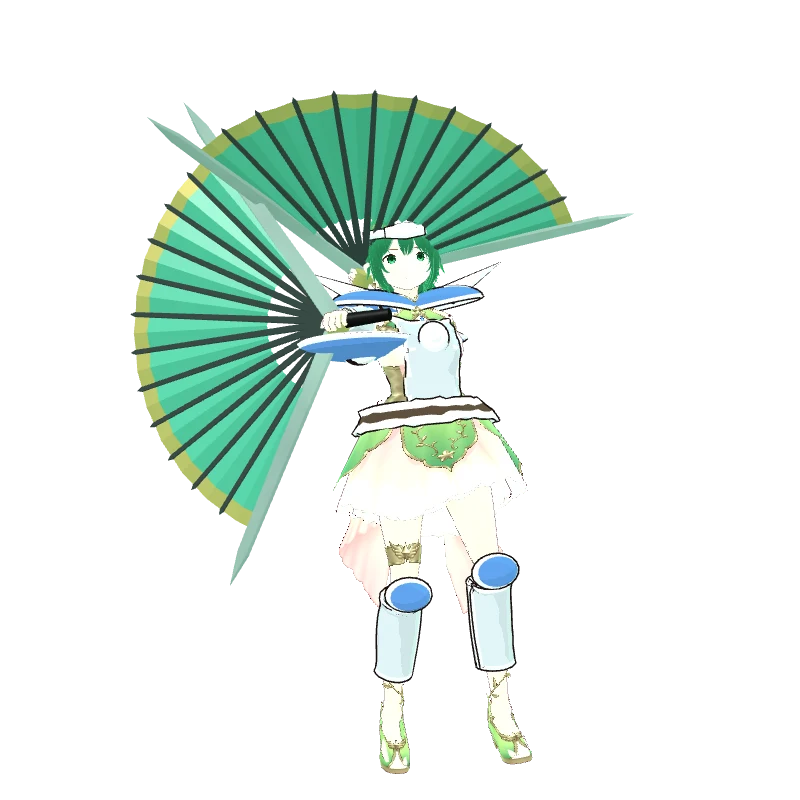
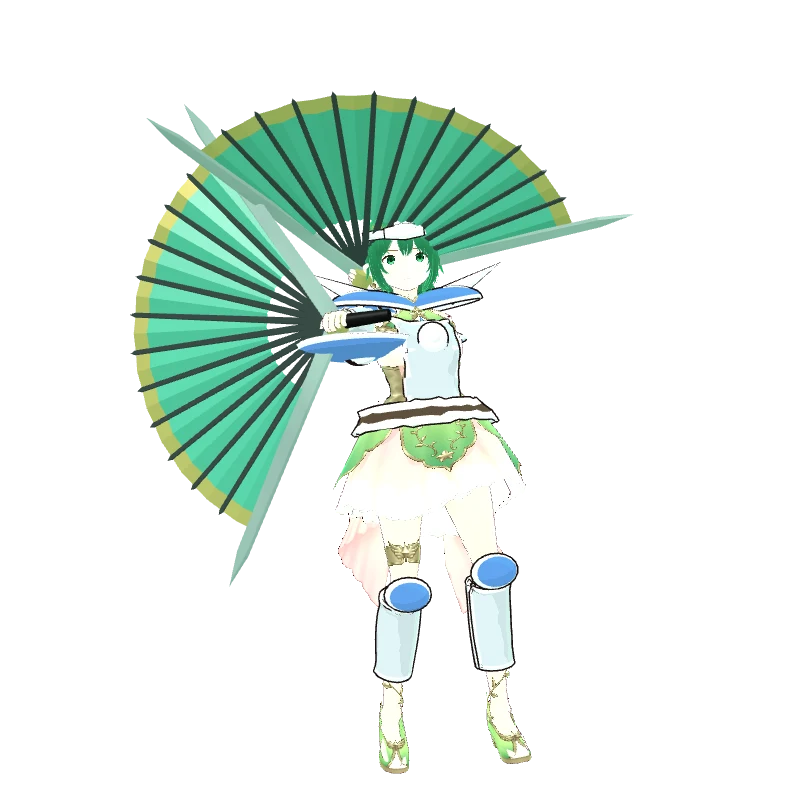
長柄の武器を柄巻きの所で握るようにする (v1.17.5)
- 長槍・大槌・大戦斧・大鎌: 右手で握る位置を柄の下端寄りから、赤い柄巻きの上端の少し下へ移す(weaponglb.js の hold)
- 左手は右手の下の柄巻きの範囲で握る(gripRange)。柄尻は手の下へ伸びる
- 大戦斧に柄巻きを足す
- 決めポーズを撮り直し

diff --git a/src/models.js b/src/models.js
@@ -116,7 +116,7 @@ function buildWeapon(type, tier, P) {
     add('c', at(cone(0.075, 0.26, P.c1, 8), 0, 1.36, 0, PI, 0, 0));
     add('g', side([[0, 1.62], [0.035, 1.72], [0, 1.52 + hl * 0.95], [-0.035, 1.72]], 0.034, glow));
     add('g', at(sph(0.034, glow, 6, 5), 0, 1.5, 0.045));
-    tip = [0, 1.58 + hl, 0]; base = [0, 1.46, 0]; two = true; grip = [0, -0.25, 0];   // 左手は右手より柄尻側
+    tip = [0, 1.58 + hl, 0]; base = [0, 1.46, 0]; two = true; grip = [0, -0.38, 0];   // 左手は右手より柄尻側
   } else if (type === 'twin') {
     // 双剣: 反りのある刃+鉤爪の鍔
     const len = 0.72 + tier * 0.06;
@@ -141,7 +141,7 @@ function buildWeapon(type, tier, P) {
     }
     add('m', at(cone(0.07, 0.26, gold, 6), 0, 1.38 + 0.31 * hs, 0));
     add('g', at(box(0.35 * hs, 0.12, 0.66 * hs, glow), 0, 1.38, 0));
-    tip = [0, 1.55, 0.15]; base = [0, 0.95, 0]; two = true; grip = [0, -0.25, 0];   // 左手は右手より柄尻側
+    tip = [0, 1.55, 0.15]; base = [0, 0.95, 0]; two = true; grip = [0, -0.38, 0];   // 左手は右手より柄尻側
   } else if (type === 'axe') {
     // 大戦斧: 両刃の三日月+棘
     const s = 1.08 + tier * 0.1, Y = (y) => 1.22 + (y - 1.22) * s;
@@ -154,7 +154,7 @@ function buildWeapon(type, tier, P) {
     add('m', at(cone(0.05, 0.3, steel, 6), 0, Y(1.62) + 0.1, 0));
     add('g', side([[0.5 * s, Y(0.96)], [0.6 * s, Y(1.22)], [0.5 * s, Y(1.5)], [0.54 * s, Y(1.22)]], 0.04, glow));
     add('g', at(sph(0.04, glow, 6, 5), 0, 1.22, 0.06));
-    tip = [0, 1.22, 0.6 * s]; base = [0, 0.95, 0]; two = true; grip = [0, -0.25, 0];   // 左手は右手より柄尻側
+    tip = [0, 1.22, 0.6 * s]; base = [0, 0.95, 0]; two = true; grip = [0, -0.38, 0];   // 左手は右手より柄尻側
   } else if (type === 'fan') {
     // 鉄扇: 刃付きの骨+光る縁
     const R = 0.62 + tier * 0.06, pts = [[0, 0]], inner = [[0, 0]];
@@ -185,7 +185,7 @@ function buildWeapon(type, tier, P) {
     add('m', at(cone(0.04, 0.26, gold, 6), 0, 1.68, 0));
     for (let i = 1; i <= 9; i++) { const a = (98 - i * 9.5) * PI / 180; add('g', at(sph(0.022, glow, 5, 4), 0, 0.585 + Math.sin(a) * 0.85 * bs, Math.cos(a) * 0.85 * bs)); }
     add('g', at(sph(0.04, glow, 6, 5), 0, 1.44, 0.055));
-    tip = [0, 0.55, 1.1 * bs]; base = [0, 1.48, 0]; two = true; grip = [0, -0.25, 0];   // 左手は右手より柄尻側
+    tip = [0, 0.55, 1.1 * bs]; base = [0, 1.48, 0]; two = true; grip = [0, -0.38, 0];   // 左手は右手より柄尻側
   }
   return { parts, tip, base, two, dual, grip };
 }
@@ -390,7 +390,7 @@ export function buildHero(look, wtype, tier = 0) {
   return {
     root: J.root, J, M, dang, scale: L.scale, wtype, two: W.two, dual: W.dual, armor: L.armor || '', spiky: !!L.vrmSpiky, pal: P, motion: L.motion || 1, armOut: L.armOut || 0,
     // 両手持ちで左手が握れる柄の範囲(右手からの距離, m)。この中で体にめり込まない位置を毎フレーム選ぶ
-    gripRange: { sword: [-0.19, -0.08], spear: [-0.75, 0.75], hammer: [-0.42, 0.6], axe: [-0.48, 0.6], scythe: [-0.72, 0.75] }[wtype] || null, run: RUNS[wtype] || RUNS.sword, oneRun: !!(RUNS[wtype] && RUNS[wtype].one),   // oneRun: 走る時は片手で持つ
+    gripRange: { sword: [-0.19, -0.08], spear: [-0.62, -0.2], hammer: [-0.54, -0.2], axe: [-0.54, -0.2], scythe: [-0.56, -0.2] }[wtype] || null,   /* 左手は右手の下の柄巻き */ run: RUNS[wtype] || RUNS.sword, oneRun: !!(RUNS[wtype] && RUNS[wtype].one),   // oneRun: 走る時は片手で持つ
     tip: new THREE.Vector3(...W.tip), base: new THREE.Vector3(...W.base), grip: new THREE.Vector3(...W.grip),
     rest: { ...RESTS[wtype], ...REST_COMMON }, idle: IDLES[wtype], height: 1.95 * L.scale, glow: P.glow,
     wMeshes,

diff --git a/src/weaponglb.js b/src/weaponglb.js
@@ -9,10 +9,11 @@ const DEF = {
   sword: { len: 1.36, grip: 0.16, trail: 0.3 },   // 右手は鍔のすぐ下、左手は柄頭側
   // native: 握る位置が原点の実寸モデル(拡大・中央寄せをしない)。tip/base は軌跡の刃先・根元 [刃の向き, 上] (m)
   twin:   { native: true, tip: [0.0, 0.84], base: [0.0, 0.18] },
-  spear:  { native: true, tip: [0.0, 2.24], base: [0.0, 1.5] },
-  hammer: { native: true, tip: [0.33, 1.36], base: [0.0, 0.95] },
-  axe:    { native: true, tip: [0.64, 1.22], base: [0.0, 0.95] },
-  scythe: { native: true, tip: [1.12, 0.5], base: [0.0, 1.5] },
+  // hold: 右手で握る高さ(柄巻きの上端の少し下)。左手はその下の柄巻きを握る(models.js の gripRange)
+  spear:  { native: true, hold: 0.5, tip: [0.0, 2.24], base: [0.0, 1.5] },
+  hammer: { native: true, hold: 0.5, tip: [0.33, 1.36], base: [0.0, 0.95] },
+  axe:    { native: true, hold: 0.5, tip: [0.64, 1.22], base: [0.0, 0.95] },
+  scythe: { native: true, hold: 0.5, tip: [1.12, 0.5], base: [0.0, 1.5] },
   fan:    { native: true, tip: [0.0, 0.62], base: [0.0, 0.12] },
 };
 const lib = {};
@@ -34,8 +35,9 @@ function prep(scene, d) {
   const box = new THREE.Box3().setFromObject(scene), h = Math.max(0.01, box.max.y - box.min.y), k = d.native ? 1 : d.len / h;
   scene.traverse((o) => { if (o.isMesh) { o.castShadow = true; o.userData.shared = true; } });
   if (d.trim) trimBottom(scene, box.min.y + h * d.trim);
-  const top = d.native ? box.max.y : (1 - d.grip) * d.len;
-  if (d.native) return { scene, d, top, off: new THREE.Vector3(), k: 1, mats: new Map() };
+  const hold = d.hold || 0;
+  const top = d.native ? box.max.y - hold : (1 - d.grip) * d.len;
+  if (d.native) return { scene, d, top, off: new THREE.Vector3(0, -hold, 0), k: 1, mats: new Map() };
   return {
     scene, d, top,
     // 外側で 縮尺→回転 をかけ、内側で中心と柄の位置をずらす
@@ -96,6 +98,7 @@ export function weaponGlb(type, tier, glow) {
   };
   const top = W.top * s;
   // 元の向き(X=刃の向き)は手の中では +Z になる
-  if (W.d.tip) return { make, tip: [0, W.d.tip[1] * s, W.d.tip[0] * s], base: [0, W.d.base[1] * s, W.d.base[0] * s] };
+  const h0 = W.d.hold || 0;
+  if (W.d.tip) return { make, tip: [0, (W.d.tip[1] - h0) * s, W.d.tip[0] * s], base: [0, (W.d.base[1] - h0) * s, W.d.base[0] * s] };
   return { make, tip: [0, top * 0.97, 0], base: [0, top * W.d.trail, 0] };
 }

diff --git a/sw.js b/sw.js
@@ -1,6 +1,6 @@
 // サービスワーカー: 全ファイルをキャッシュしてオフラインでも遊べるようにする
 // ※ ゲームを更新したら CACHE の番号を上げてください(古いキャッシュが破棄されます)
-const CACHE = 'seiga-v1.17.4';
+const CACHE = 'seiga-v1.17.5';
 const FILES = [
   './', 'index.html', 'manifest.webmanifest', 'css/style.css', 'vendor/three.module.min.js',
   'icons/icon-192.png', 'icons/icon-512.png', 'icons/icon-maskable-512.png', 'icons/apple-touch-icon.png',

diff --git a/src/config.js b/src/config.js
@@ -4,7 +4,7 @@
 // 空のままでも、ゲーム内「設定」画面から個別にURLを入力できます。
 export const CLOUD_URL = 'https://script.google.com/macros/s/AKfycbwIXAdAaQbAvjuTPs3f40_3I8KxJB3mKbrFkAzfM-IuFDj_kmxqeDuisBGuqbjSZOJp1Q/exec';
 
-export const VERSION = '1.17.4';
+export const VERSION = '1.17.5';
 
 // VRoid のキャラ(VRM)。ファイルを vrm/ フォルダに入れ、武将ID: パス を書くと差し替わります
 // 武将ID: reiga / setsuna / raika / gandou / fuuka / yomi

diff --git a/tools/blender/weapons2.py b/tools/blender/weapons2.py
@@ -141,7 +141,8 @@ def axe():
     B = Builder('axe'); M = tex_mats()
     shaft(B, -0.55, 1.62, 0.029, 0.027, M['black'])
     B.lathe([(-0.6, 0.03), (-0.58, 0.044), (-0.53, 0.044), (-0.51, 0.03)], M['gold'], n=14)
-    for z in (-0.02, 0.1, 0.22, 0.62): band(B, z, 0.035, 0.03, M['gold'])
+    B.lathe([(-0.1, 0.031), (0.62, 0.031)], wrap_mat(), n=14, cap_start=False, cap_end=False)   # 両手で握る所を巻く
+    for z in (-0.11, 0.63, 0.8): band(B, z, 0.035, 0.03, M['gold'])
     B.lathe([(0.92, 0.045), (0.96, 0.055), (1.48, 0.055), (1.52, 0.045)], M['dark'], n=12)   # 斧頭の取り付け
     blade(B, [(0.04, 0.98)] + arc(0.18, 1.22, 0.47, -62, 62, 12) + [(0.04, 1.46)], 0.03, 0.022, M['steel'])
     blade(B, [(-0.03, 1.3), (-0.3, 1.25), (-0.4, 1.2), (-0.3, 1.16), (-0.03, 1.12)], 0.028, 0.012, M['steel'])
